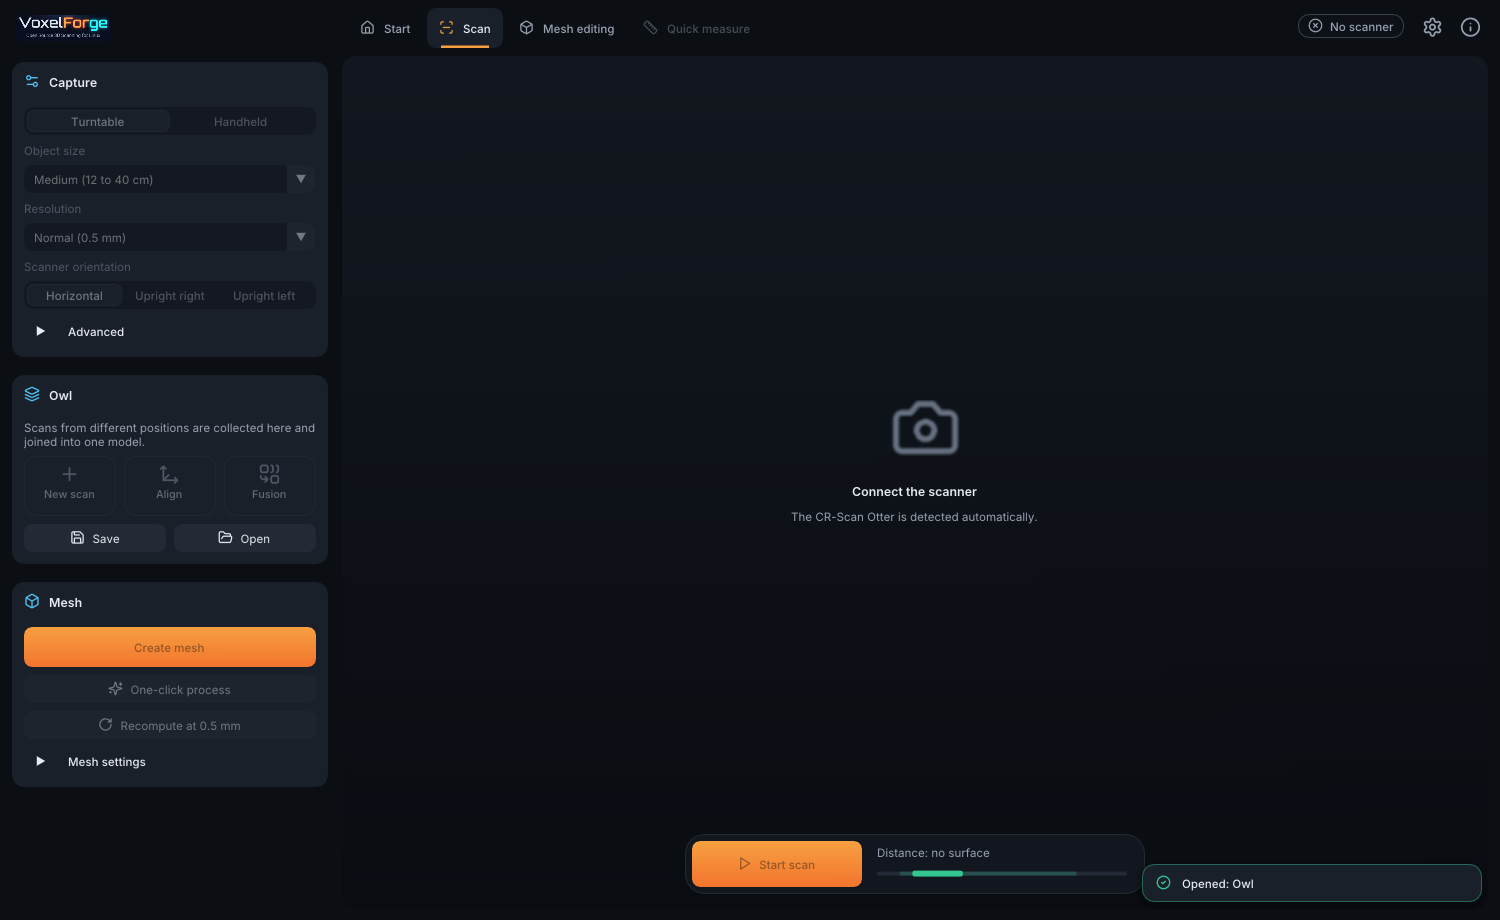
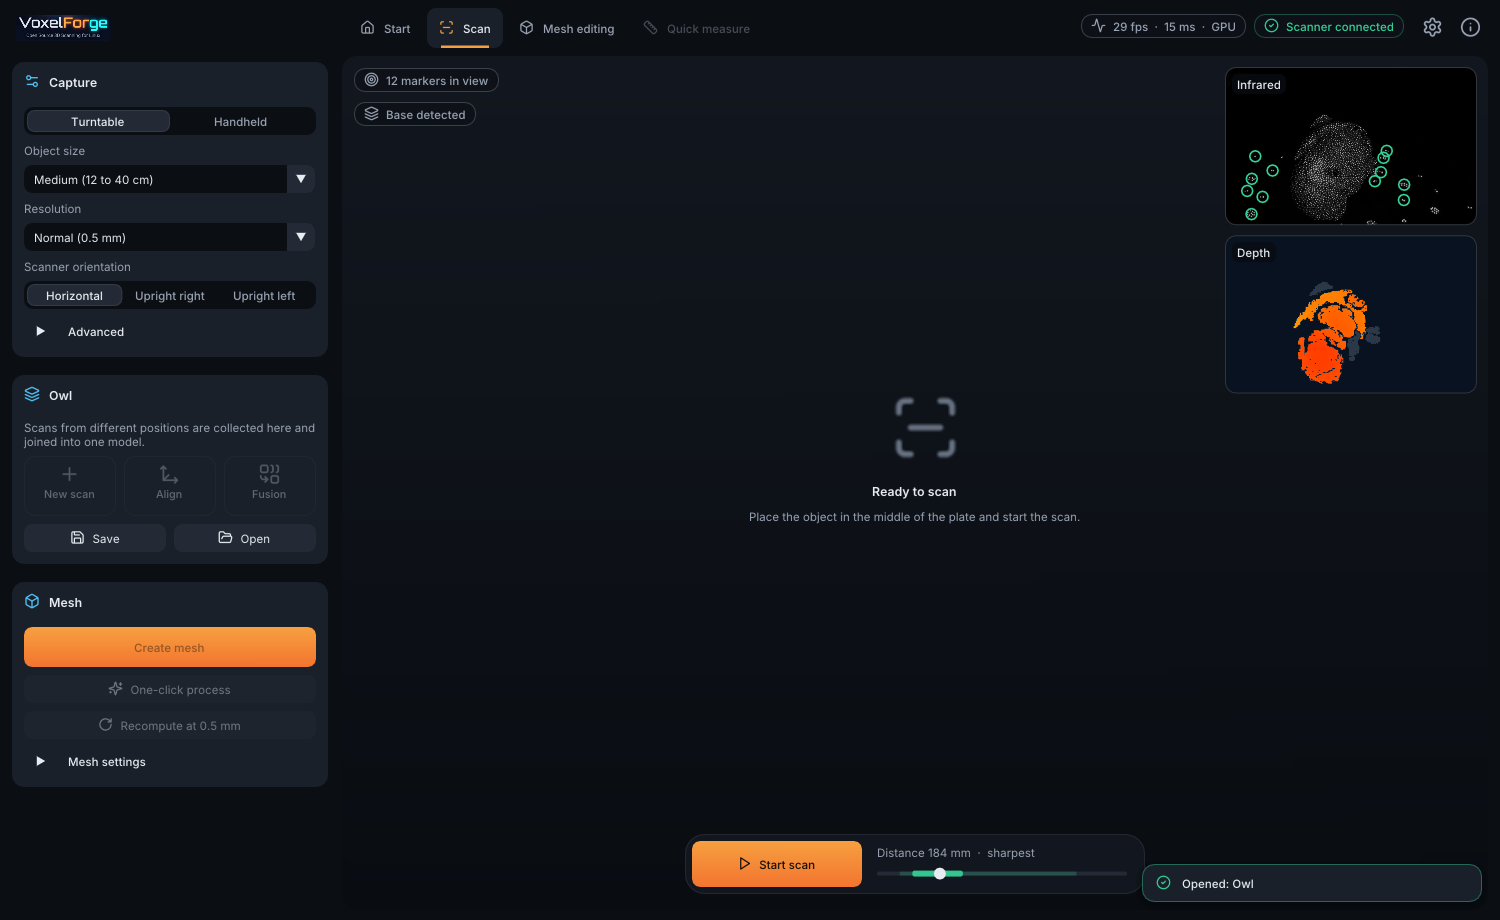
Show the scan view with a connected scanner

diff --git a/docs/MANUAL.md b/docs/MANUAL.md
@@ -35,7 +35,7 @@ This manual follows the program from the start page to the finished print. Voxel
 
 ## Scanning
 
-![The scan view, waiting for a scanner](images/scan_live.png)
+![The scan view, ready to scan, with the live pictures](images/scan_live.png)
 
 ### The capture card
 
